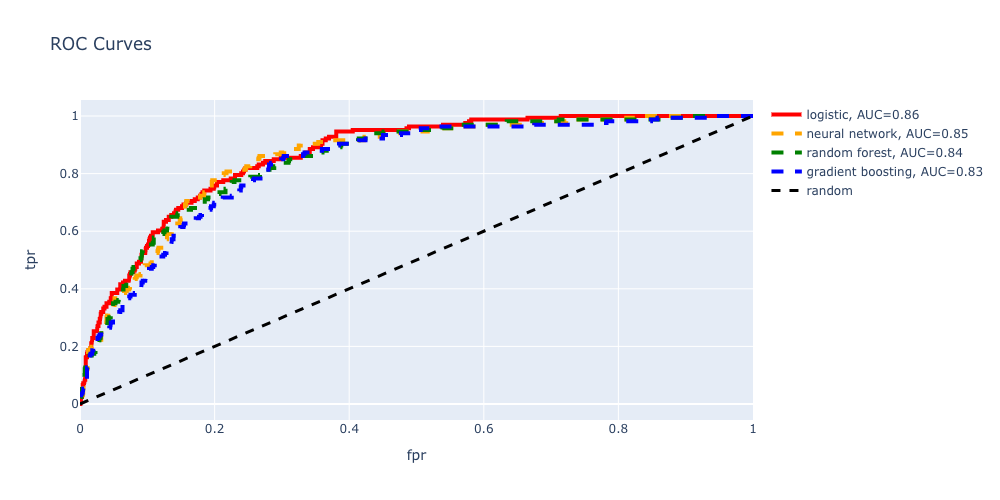
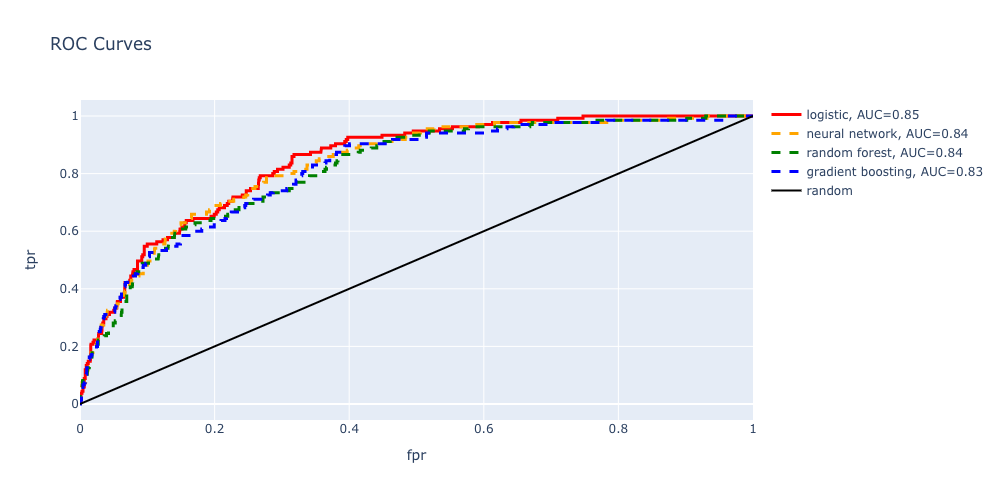
Update and organize py files, create plots and images, add visuals to README

diff --git a/src/model_exploration.py b/src/model_exploration.py
@@ -1,115 +1,179 @@
+import numpy as np
+import pandas as pd
+import matplotlib.pyplot as plt
+%matplotlib inline
+import plotly.graph_objects as go
+
 from sklearn.linear_model import LogisticRegression
 from sklearn.preprocessing import MinMaxScaler
 from sklearn.model_selection import train_test_split, KFold
-from sklearn.metrics import log_loss, roc_auc_score
+from sklearn.metrics import log_loss, roc_curve, roc_auc_score, confusion_matrix
 from sklearn.ensemble import RandomForestClassifier, GradientBoostingClassifier
+from sklearn.neural_network import MLPClassifier
+
+age_gender = agg_data[['age', 'gender']]
+colors = np.where(cardio_risk==1,'r','g')
+fig,ax = plt.subplots(figsize=(10,8))
+#age_gender.plot.scatter(x='age',y='gender', alpha=0.01, c=colors, title='Risk Distribution for Age & Gender',
+#                       figsize=(10,8))
+#plt.show()
+ax.scatter(x=agg_data['age'][cardio_risk==0],y=agg_data['gender'][cardio_risk==0], alpha=0.2, c='green', 
+           label='low-risk')
+ax.scatter(x=agg_data['age'][cardio_risk==1],y=agg_data['gender'][cardio_risk==1], alpha=0.2, c='red', 
+           label='high-risk')
+ax.set_xlabel('Age (years)')
+ax.set_yticks([0,1])
+ax.set_yticklabels(['female', 'male'])
+ax.set_ylabel('Gender')
+ax.set_title('Risk Distribution by Age & Gender')
+ax.legend()
+plt.savefig('img/initial_model_dist.png')
 
 #Initial baseline model using age & gender
-X_init = agg_data[['RIDAGEYR', 'RIAGENDR']]
-y_init = np.array(cardio_risk)
-model_init = LogisticRegression(C=1000)
-model_init.fit(X_init,y_init)
-y_prob_init = model.predict_proba(X_init)
-log_loss(y_init, y_prob_init)
+X_train_init, X_test_init, y_train_init, y_test_init = train_test_split(agg_data[['age', 'gender']],cardio_risk)
+model = LogisticRegression(solver='lbfgs')
+model.fit(X_train_init,y_train_init)
+y_prob_init = model.predict_proba(X_test_init)
+#log_loss(y_test_init, y_prob_init)
+roc_auc_score(y_test_init, y_prob_init[:,1])
 
 X_train, X_test, y_train, y_test = train_test_split(agg_data,cardio_risk)
 scaler_train = MinMaxScaler()
 scaler_test = MinMaxScaler()
 X_train_scaled, X_test_scaled = scaler_train.fit_transform(X_train), scaler_test.fit_transform(X_test)
 
-model = LogisticRegression(C=1000)
-model.fit(X_train,y_train)
-y_prob = model.predict_proba(X_test)
-log_loss(y_test, y_prob)
+#feature scaling and regularization
+model_log = LogisticRegression(solver='lbfgs', max_iter=10000)
+model_log.fit(X_train_scaled,y_train)
+y_hat_log = model_log.predict_proba(X_test_scaled)
+log_loss(y_test, y_hat_log)
 
 #try using only top 10 features by importance (based on coefficients)
-ind = list(np.absolute(model.coef_).argsort()[0])
-top10_log = agg_data.iloc[:,ind[-10:]]
-X_train10_log, X_test10_log, y_train10_log, y_test10_log = train_test_split(top10_log, cardio_risk)
-model10_log = LogisticRegression(C=1000, solver='lbfgs', max_iter=10000)
-model10_log.fit(X_train10_log, y_train10_log)
-y_hat10_log = model10_log.predict_proba(X_test10_log)
-log_loss(y_test10_log, y_hat10_log)
+# ind = list(np.absolute(model.coef_).argsort()[0])
+# top10_log = agg_data.iloc[:,ind[-10:]]
+# X_train10_log, X_test10_log, y_train10_log, y_test10_log = train_test_split(top10_log, cardio_risk)
+# model10_log = LogisticRegression(C=1000, solver='lbfgs', max_iter=10000)
+# model10_log.fit(X_train10_log, y_train10_log)
+# y_hat10_log = model10_log.predict_proba(X_test10_log)
+# log_loss(y_test10_log, y_hat10_log)
 
-model_scaled = LogisticRegression(C=1000)
-model_scaled.fit(X_train_scaled,y_train)
-y_prob_scaled = model_scaled.predict_proba(X_test_scaled)
-log_loss(y_test, y_prob_scaled)
-
-model_rf = RandomForestClassifier(n_estimators=1000)
+model_rf = RandomForestClassifier(n_estimators=1000, min_samples_split=10)
 model_rf.fit(X_train, y_train)
 y_hat_rf = model_rf.predict_proba(X_test)
 log_loss(y_test, y_hat_rf)
 
-feat_scores = pd.DataFrame({'Fraction of Samples Affected' : model_rf.feature_importances_},
-                           index=agg_data.columns)
-feat_scores = feat_scores.sort_values(by='Fraction of Samples Affected')
-feat_scores.plot(kind='barh', figsize=(10,20))
-
-model_gbc = GradientBoostingClassifier(n_estimators=1000)
+model_gbc = GradientBoostingClassifier(n_estimators=1000, max_depth=2)
 model_gbc.fit(X_train, y_train)
 y_hat_gbc = model_gbc.predict_proba(X_test)
 log_loss(y_test, y_hat_gbc)
 
-neural = MLPClassifier(hidden_layer_sizes=(100, 5), activation='logistic',alpha=0.0001, max_iter=200)
+neural = MLPClassifier(hidden_layer_sizes=(100, 2), activation='logistic',alpha=0.0001, max_iter=200)
 neural.fit(X_train, y_train)
 y_hat_neural = neural.predict_proba(X_test)
 log_loss(y_test, y_hat_neural)
 
-roc_auc_score(y_test, y_prob[:,1])  #logistic regression
-roc_auc_score(y_test, y_prob_scaled[:,1])  #logistic regression scaled
+roc_auc_score(y_test, y_hat_log[:,1])  #logistic regression
 roc_auc_score(y_test, y_hat_rf[:,1]) #random forest
 roc_auc_score(y_test, y_hat_gbc[:,1])    #gradient boosting classifier
 roc_auc_score(y_test, y_hat_neural[:,1])  #neural network
 
-def calculate_threshold_values(prob, y):
-    '''
-    Build dataframe of the various confusion-matrix ratios by threshold
-    from a list of predicted probabilities and actual y values
-    '''
-    df = pd.DataFrame({'prob': prob, 'y': y})
-    df.sort_values('prob', inplace=True)
-    
-    actual_p = df.y.sum()
-    actual_n = df.shape[0] - df.y.sum()
+#find best estimate of ROC AUC
+kf = KFold(n_splits=10, shuffle=True)
+auc = []
 
-    df['tn'] = (df.y == 0).cumsum()
-    df['fn'] = df.y.cumsum()
-    df['fp'] = actual_n - df.tn
-    df['tp'] = actual_p - df.fn
+scaler_k = MinMaxScaler()
+X = scaler_k.fit_transform(agg_data)
+y = cardio_risk
 
-    df['fpr'] = df.fp/(df.fp + df.tn)
-    df['tpr'] = df.tp/(df.tp + df.fn)
-    df['precision'] = df.tp/(df.tp + df.fp)
-    df = df.reset_index(drop=True)
-    return df
+for train, test in kf.split(X):
+    model_test = LogisticRegression(solver='lbfgs', max_iter=10000)
+    model_test.fit(X[train], y.values[train])
+    y_hat = model_test.predict_proba(X[test])
+    auc.append(roc_auc_score(y.values[test], y_hat[:,1]))
+np.mean(auc)
 
-df1 = calculate_threshold_values(y_prob[:,1], y_test)
-df2 = calculate_threshold_values(y_hat_rf[:,1], y_test)
-df3 = calculate_threshold_values(y_hat_gbc[:,1], y_test)
-df4 = calculate_threshold_values(y_hat_neural[:,1], y_test)
+kf = KFold(n_splits=10, shuffle=True)
+auc = []
+
+X = agg_data
+y = cardio_risk
+
+for train, test in kf.split(X):
+    model_test = RandomForestClassifier(n_estimators=1000, min_samples_split=10)
+    model_test.fit(X.values[train], y.values[train])
+    y_hat = model_test.predict_proba(X.values[test])
+    auc.append(roc_auc_score(y.values[test], y_hat[:,1]))
+np.mean(auc)
+
+kf = KFold(n_splits=10, shuffle=True)
+auc = []
+
+X = agg_data
+y = cardio_risk
+
+for train, test in kf.split(X):
+    model_test = GradientBoostingClassifier(n_estimators=1000, max_depth=2)
+    model_test.fit(X.values[train], y.values[train])
+    y_hat = model_test.predict_proba(X.values[test])
+    auc.append(roc_auc_score(y.values[test], y_hat[:,1]))
+np.mean(auc)
+
+kf = KFold(n_splits=10, shuffle=True)
+auc = []
+
+X = agg_data
+y = cardio_risk
+
+for train, test in kf.split(X):
+    model_test = MLPClassifier(hidden_layer_sizes=(100, 2), activation='logistic',alpha=0.0001, max_iter=200)
+    model_test.fit(X.values[train], y.values[train])
+    y_hat = model_test.predict_proba(X.values[test])
+    auc.append(roc_auc_score(y.values[test], y_hat[:,1]))
+np.mean(auc)
+
+#compare feature importance between logistic and RF
+log_features = pd.DataFrame({'Fraction of Samples Affected' : np.absolute(model_log.coef_[0])}, 
+                            index=agg_data.columns)
+log_features = log_features.sort_values(by='Fraction of Samples Affected')
+
+rf_features = pd.DataFrame({'Fraction of Samples Affected' : model_rf.feature_importances_},
+                           index=agg_data.columns)
+rf_features = rf_features.sort_values(by='Fraction of Samples Affected')
+
+fig, ax = plt.subplots(1,2, figsize=(10,20))
+ax[0].barh(log_features.index, log_features['Fraction of Samples Affected'].values, height=0.8)
+ax[1].barh(rf_features.index, rf_features['Fraction of Samples Affected'].values, height=0.8)
+
+fig.tight_layout()
+#plt.savefig('img/rf_feature_importance.png')
+
+#make ROC curves
+fpr_log, tpr_log, thresh_log = roc_curve(y_test, y_hat_log[:,1])
+fpr_rf, tpr_rf, thresh_rf = roc_curve(y_test, y_hat_rf[:,1])
+fpr_gbc, tpr_gbc, thresh_gbc = roc_curve(y_test, y_hat_gbc[:,1])
+fpr_neural, tpr_neural, thresh_neural = roc_curve(y_test, y_hat_neural[:,1])
 
 fig = go.Figure()
-fig.add_trace(go.Scatter(x=[1]+list(df1.fpr), y=[1]+list(df1.tpr),
+fig.add_trace(go.Scatter(x=fpr_log, y=tpr_log,
                     mode='lines',
-                    name='logistic, AUC=0.86',
-                    line=dict(color='red', width=4)))
-fig.add_trace(go.Scatter(x=[1]+list(df4.fpr), y=[1]+list(df4.tpr),
+                    name='logistic, AUC=0.85',
+                    line=dict(color='red', width=3)))
+fig.add_trace(go.Scatter(x=fpr_neural, y=tpr_neural,
                     mode='lines',
-                    name='neural network, AUC=0.85',
-                    line=dict(color='orange', width=4, dash='dash')))
-fig.add_trace(go.Scatter(x=[1]+list(df2.fpr), y=[1]+list(df2.tpr),
+                    name='neural network, AUC=0.84',
+                    line=dict(color='orange', width=3, dash='dash')))
+fig.add_trace(go.Scatter(x=fpr_rf, y=tpr_rf,
                     mode='lines',
                     name='random forest, AUC=0.84',
-                    line=dict(color='green', width=4, dash='dash')))
-fig.add_trace(go.Scatter(x=[1]+list(df3.fpr), y=[1]+list(df3.tpr),
+                    line=dict(color='green', width=3, dash='dash')))
+fig.add_trace(go.Scatter(x=fpr_gbc, y=tpr_gbc,
                     mode='lines',
                     name='gradient boosting, AUC=0.83',
-                    line=dict(color='blue', width=4, dash='dash')))
+                    line=dict(color='blue', width=3, dash='dash')))
 fig.add_trace(go.Scatter(x=[0,1], y=[0,1],
                     mode='lines',
                     name='random',
-                    line=dict(color='black', width=3, dash='dash')))
+                    line=dict(color='black', width=2)))
 
 fig.update_layout(title='ROC Curves',
                    xaxis_title='fpr',
@@ -117,6 +181,7 @@ fig.update_layout(title='ROC Curves',
 
 fig.show()
 #fig.write_image('img/roc_comparison.png', width=1000, height=500)
+
 
 def make_cf(y_true, y_pred, threshold=0.5):
     y_thresh = [1 if y_pred[i,1] > threshold else 0 for i in range(len(y_pred))]
@@ -128,24 +193,8 @@ def make_cf(y_true, y_pred, threshold=0.5):
 # high-risk, incorrectly indentified-------(-10,000)
 # low-risk, correctly identified-----------0
 # low-risk, incorrectly identified---------(-500)
-cb = np.array([[0, -500],[-10000, 2000]]) * make_cf(y_test, y_prob, 0.5)
-profit = cb.values.sum()
+cb_log = np.array([[0, -500],[-10000, 2000]]) * make_cf(y_test, y_hat_log, 0.5)
+profit_log = cb_log.values.sum()
 
-# kf = KFold(n_splits=5, shuffle=True)
-# auc = []
-
-# X = agg_data
-# y = cardio_risk
-# for train, test in kf.split(X):
-#     model = LogisticRegression(C=1000, solver='lbfgs', max_iter=10000)
-#     model.fit(X.values[train], y.values[train])
-#     y_hat = model.predict_proba(X.values[test])
-#     auc.append(roc_auc_score(y.values[test], y_hat[:,1]))
-# np.mean(auc)
-
-model = MLPClassifier()
-parameters = {'hidden_layer_sizes': (range(1, 101), range(1, 101)), 'activation': ['logistic', 'tanh', 'relu'], 'alpha': [0.001, 0.005, 0.01], 'max_iter': [100, 200, 500]}
-grid = GridSearchCV(model, parameters, scoring='roc_auc')
-grid.fit(X_train, y_train)
-y_hat_grid = grid.predict_proba(X_test)
-log_loss(y_test, y_hat_grid), roc_auc_score(y_test, y_hat_grid[:,1])
+cb_neural = np.array([[0, -500],[-10000, 2000]]) * make_cf(y_test, y_hat_neural, 0.5)
+profit_neural = cb_neuaral.values.sum()

diff --git a/src/data_cleaning.py b/src/data_cleaning.py
@@ -1,11 +1,13 @@
 import numpy as np
 import pandas as pd
-import matplotlib.pyplot as plt
-
 import os
 from collections import defaultdict
 
 files = os.listdir('data/data_2016/') # dir is your directory path
+file_set = set(files)
+if '.ipynb_checkpoints' in file_set:
+    files.remove('.ipynb_checkpoints')
+    
 number_files = len(files)
 
 df_dict = defaultdict()

diff --git a/README.md b/README.md
@@ -26,6 +26,8 @@ Multiple classification models were considered in order to classify individuals 
 
 The initial baseline model was a logistic regression (without normalization) based on age and gender. The ROC AUC score was 0.79.
 
+![Looking at label distribution based on age & gender](img/initial_model_dist.png)
+
 After all data cleaning and feature engineering was completed, the following models were explored:
 
 1. Logistic Regression with L2 regularization using normalized data
@@ -37,8 +39,10 @@ After all data cleaning and feature engineering was completed, the following mod
 ## Results
 
 
-![ROC curves for various models](img/roc_comparison.png)
+![Confusion matrices at different thresholds for logistic regression](img/logistic_confusion_matrix.png)
 
-
+![Feature comparison between logistic and RF](img/feature_importance.png)
 
 Generated feature importance plot from Random Forest.
+
+![Feature comparison between logistic and RF](img/feature_importance.png)
